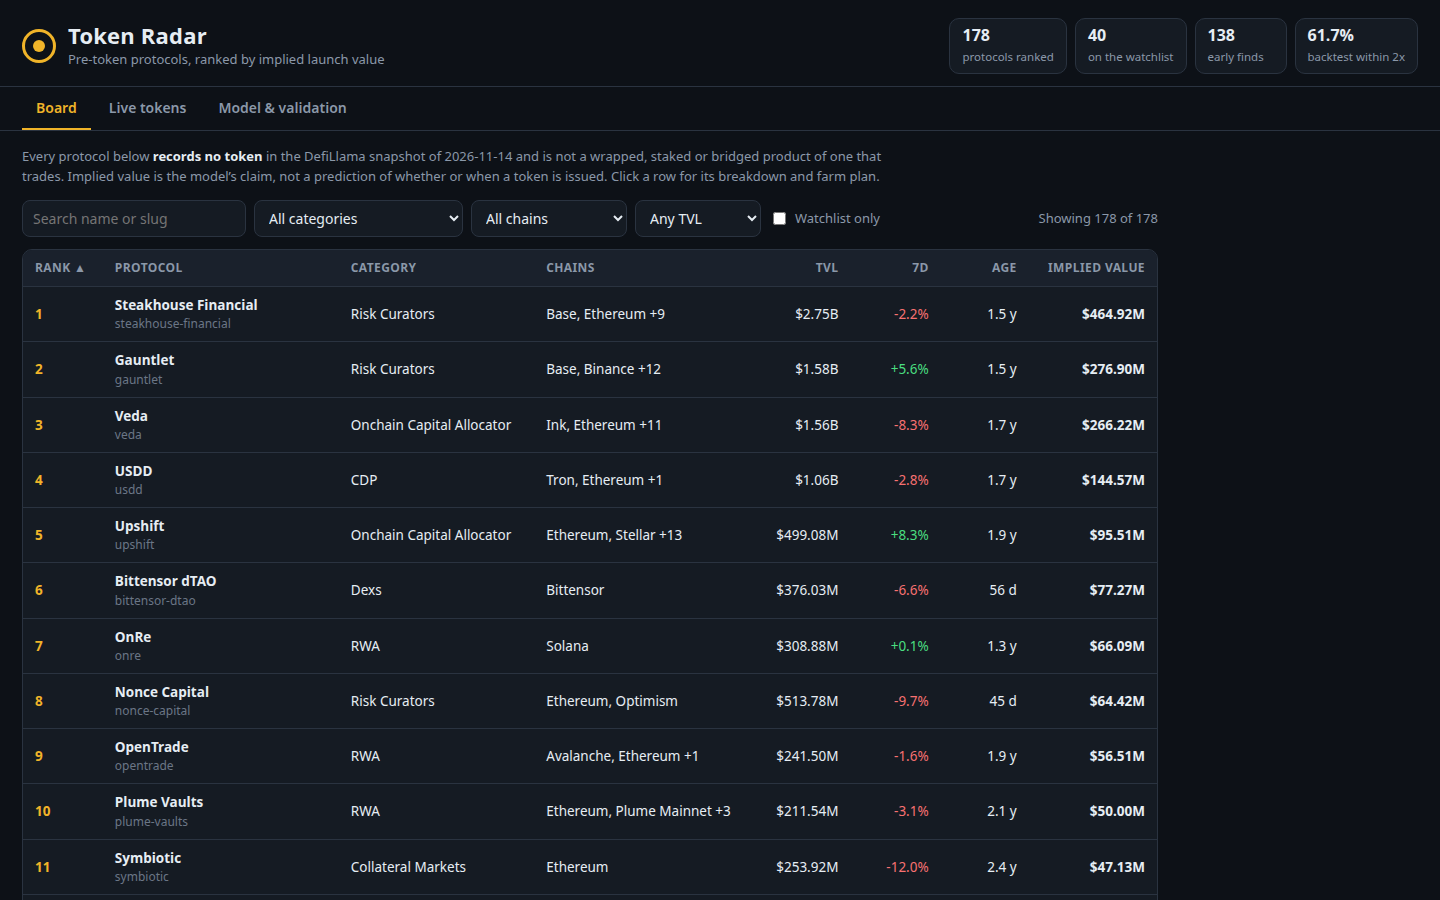
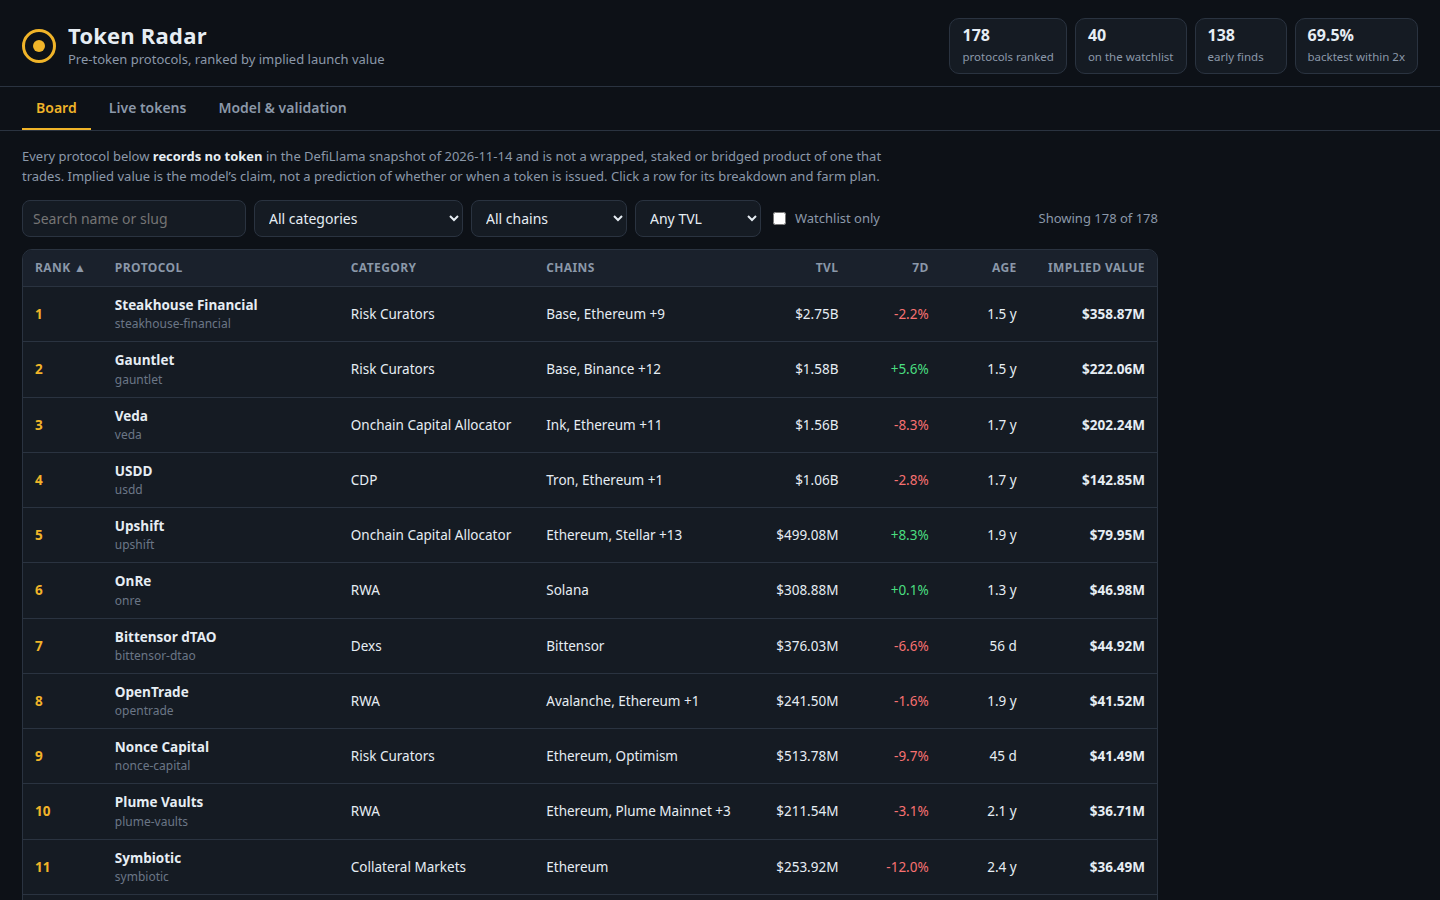
model radar-4.1: retune by LOO grid search (2700 combos, 128 live protocols)
growth weight 0.5 -> 1.0, maturity floor 0.6 -> 0.4 over 1460 days,
min category comps 3 -> 5, category multiple shrunk toward the global
median (n*category + 5*global) / (n + 5). Backtest: median error 93.2% ->
92.2%, within 2x 61.7% -> 69.5%. Dashboard text, formula, sandbox
defaults and README updated to match; screenshots re-taken.

diff --git a/lib/model.ts b/lib/model.ts
@@ -1,4 +1,4 @@
-// Token radar, model radar-4: category-calibrated comps.
+// Token radar, model radar-4.1: category-calibrated comps, retuned by LOO.
 //
 // The board ranks every protocol the snapshot can still call pre-token: the
 // house watchlist (the floor) plus every other protocol below the floor that
@@ -9,9 +9,10 @@
 //
 // Implied value, from the snapshot's own figures only:
 //
-//   multiple   = median (mcap / tvl) of the live-token protocols in the
-//                protocol's own category (at least 3 comps), else the median
-//                across every live-token protocol
+//   multiple   = the median (mcap / tvl) of the live-token protocols in the
+//                protocol's own category (at least 5 comps), shrunk toward
+//                the global median: (n * category + 5 * global) / (n + 5);
+//                with fewer than 5 comps, the global median alone
 //   growth     = clamp(change_7d, -60, 120) per cent
 //   growthMult = 1 + (growth / 100) * GROWTH_WEIGHT
 //   maturity   = MATURITY_FLOOR + min(age_days, MATURITY_DAYS) / MATURITY_DAYS
@@ -60,21 +61,23 @@ export interface ModelConstants {
   maturity_days: number;
   unknown_age_days: number;
   min_category_comps: number;
+  shrink_k: number;
 }
 
 export const MODEL: ModelConstants = {
-  growth_weight: 0.5,
+  growth_weight: 1.0,
   growth_floor: -60,
   growth_cap: 120,
-  maturity_floor: 0.6,
-  maturity_range: 0.4,
-  maturity_days: 1095,
+  maturity_floor: 0.4,
+  maturity_range: 0.6,
+  maturity_days: 1460,
   unknown_age_days: 365,
-  min_category_comps: 3,
+  min_category_comps: 5,
+  shrink_k: 5,
 };
 
 /** The model's version label: the dashboard names it. */
-export const MODEL_VERSION = 'radar-4';
+export const MODEL_VERSION = 'radar-4.1';
 
 /** How many live-token protocols the dashboard's Live tab carries, by market cap. */
 export const LIVE_ROWS = 24;
@@ -266,16 +269,23 @@ function globalMultiple(protocols: SnapshotProtocol[]): number {
   return median(all);
 }
 
-/** A category's fitted multiple: its own median when it has enough comps, else the global median. */
+/** A category's fitted multiple: its own median, shrunk toward the global
+ *  median by weight shrinkK, when it has enough comps; else the global median alone. */
 function fittedMultiple(
   category: string | null,
   byCat: Map<string, number[]>,
   global: number,
   minComps: number,
+  shrinkK: number,
 ): { multiple: number; comps: number } {
   const key = category ?? '(no category)';
   const list = byCat.get(key) ?? [];
-  if (list.length >= minComps) return { multiple: median(list), comps: list.length };
+  if (list.length >= minComps) {
+    const catMed = median(list);
+    const multiple =
+      shrinkK > 0 ? (list.length * catMed + shrinkK * global) / (list.length + shrinkK) : catMed;
+    return { multiple, comps: list.length };
+  }
   return { multiple: global, comps: list.length };
 }
 
@@ -310,7 +320,7 @@ export function backtest(snapshot: Snapshot, model: ModelConstants = MODEL): Bac
     );
     const byCat = liveMultiples(peers);
     const global = globalMultiple(peers);
-    const { multiple } = fittedMultiple(p.category, byCat, global, model.min_category_comps);
+    const { multiple } = fittedMultiple(p.category, byCat, global, model.min_category_comps, model.shrink_k);
     const { implied } = impliedValue(p, snapshot.as_of, multiple, model);
     errors.push(Math.abs(implied - p.mcap_usd!) / p.mcap_usd!);
   }
@@ -343,7 +353,7 @@ export function buildBoard(snapshot: Snapshot, model: ModelConstants = MODEL): B
     chosen.set(p.slug, p);
   }
   const scored = [...chosen.values()].map((p) => {
-    const { multiple, comps } = fittedMultiple(p.category, byCat, global, model.min_category_comps);
+    const { multiple, comps } = fittedMultiple(p.category, byCat, global, model.min_category_comps, model.shrink_k);
     const v = impliedValue(p, snapshot.as_of, multiple, model);
     return { p, multiple, comps, ...v };
   });

diff --git a/dashboard/app.js b/dashboard/app.js
@@ -288,12 +288,13 @@
     main.innerHTML =
       '<div class="grid2"><div>' +
       '<div class="card"><h3>How the value is worked out</h3>' +
-      '<div class="formula">implied = TVL x category multiple\n        x (1 + clamp(7d change, -60, 120)% x growth weight)\n        x (0.6 + min(age, 1095d) / 1095 x 0.4)</div>' +
+      '<div class="formula">implied = TVL x category multiple\n        x (1 + clamp(7d change, -60, 120)% x growth weight)\n        x (0.4 + min(age, 1460d) / 1460 x 0.6)</div>' +
       '<p>The <b>category multiple</b> is the median market-cap-to-TVL ratio of the live-token protocols in the ' +
-      'same category (at least ' + m.min_category_comps + ' comps), or the global median of <b>' + R.global_multiple.toFixed(3) + 'x</b> ' +
-      'when a category has too few. Nothing is fitted to a name: the same function scores every row.</p>' +
-      '<p>Growth is the protocol\u2019s own 7-day TVL change, clamped so one hot week cannot dominate. ' +
-      'Maturity rises with how long the protocol has run with no token, from 0.6 to 1.0 over three years; ' +
+      'same category (at least ' + m.min_category_comps + ' comps), shrunk toward the global median of <b>' + R.global_multiple.toFixed(3) + 'x</b> ' +
+      'as (n x category + ' + m.shrink_k + ' x global) / (n + ' + m.shrink_k + '); with too few comps the global median is used alone. ' +
+      'Nothing is fitted to a name: the same function scores every row.</p>' +
+      '<p>Growth is the protocol\u2019s own 7-day TVL change, clamped so one hot week cannot dominate, counted at full weight. ' +
+      'Maturity rises with how long the protocol has run with no token, from 0.4 to 1.0 over four years; ' +
       'a protocol with no listing date is treated as ' + m.unknown_age_days + ' days old.</p></div>' +
       '<div class="card"><h3>Validation, computed from the snapshot</h3>' +
       '<p>Leave-one-out over the <b>' + b.live_count + '</b> live-token protocols: each one\u2019s market cap predicted ' +
@@ -314,8 +315,8 @@
       '<div class="card"><h3>Category multiples</h3>' +
       '<div class="tablewrap"><table><thead><tr><th>Category</th><th class="num">Comps</th><th class="num">Multiple</th></tr></thead>' +
       '<tbody>' + multRows + '</tbody></table></div>' +
-      '<p class="mini">Median market-cap-to-TVL among live-token protocols, per category. Categories with fewer than ' +
-      m.min_category_comps + ' comps fall back to the global median.</p></div>' +
+      '<p class="mini">Raw median market-cap-to-TVL among live-token protocols, per category — the fitted multiple starts here and is then shrunk toward the global median. Categories with fewer than ' +
+      m.min_category_comps + ' comps use the global median alone.</p></div>' +
       '</div></div>';
 
     var apply = document.getElementById('sb-apply');
@@ -351,8 +352,8 @@
     var growthPct = clampGrowth(r.change_7d);
     var age = r.age_days == null ? R.model.unknown_age_days : r.age_days;
     var maturity = R.model.maturity_floor + (Math.min(Math.max(age, 0), R.model.maturity_days) / R.model.maturity_days) * R.model.maturity_range;
-    var multipleLabel = 'Category multiple (' + esc(catName(r.category)) + ', ' + r.category_comps + (r.category_comps === 1 ? ' comp' : ' comps') + ')';
-    if (r.category_comps < 3) {
+    var multipleLabel = 'Category multiple (' + esc(catName(r.category)) + ', ' + r.category_comps + (r.category_comps === 1 ? ' comp' : ' comps') + ', shrunk toward global)';
+    if (r.category_comps < R.model.min_category_comps) {
       multipleLabel = 'Multiple: global median (' + esc(catName(r.category)) + ' has only ' + r.category_comps + (r.category_comps === 1 ? ' live comp' : ' live comps') + ')';
     }
     drawer.innerHTML =

diff --git a/README.md b/README.md
@@ -29,12 +29,15 @@ That writes `out/board.json`, `out/data.js`, `out/dashboard/`,
 
 ## Model
 
-`lib/model.ts` (`radar-4`): implied value = TVL x category multiple x growth
-multiplier x maturity multiplier. The category multiple is the median
-mcap/TVL of live-token protocols in the same category (at least 3 comps),
-else the global median. Growth is the 7-day TVL change clamped to -60..120%,
-weighted 0.5. Maturity rises from 0.6 to 1.0 over three years with no token;
-unknown age counts as 365 days.
+`lib/model.ts` (`radar-4.1`, retuned by leave-one-out search over 2,700 constant
+combinations on the snapshot's 128 live-token protocols): implied value = TVL x
+category multiple x growth multiplier x maturity multiplier. The category
+multiple is the median mcap/TVL of live-token protocols in the same category
+(at least 5 comps), shrunk toward the global median as
+(n x category + 5 x global) / (n + 5); with fewer than 5 comps the global
+median is used alone. Growth is the 7-day TVL change clamped to -60..120%,
+counted at full weight. Maturity rises from 0.4 to 1.0 over four years with no
+token; unknown age counts as 365 days.
 
 ## License
 
